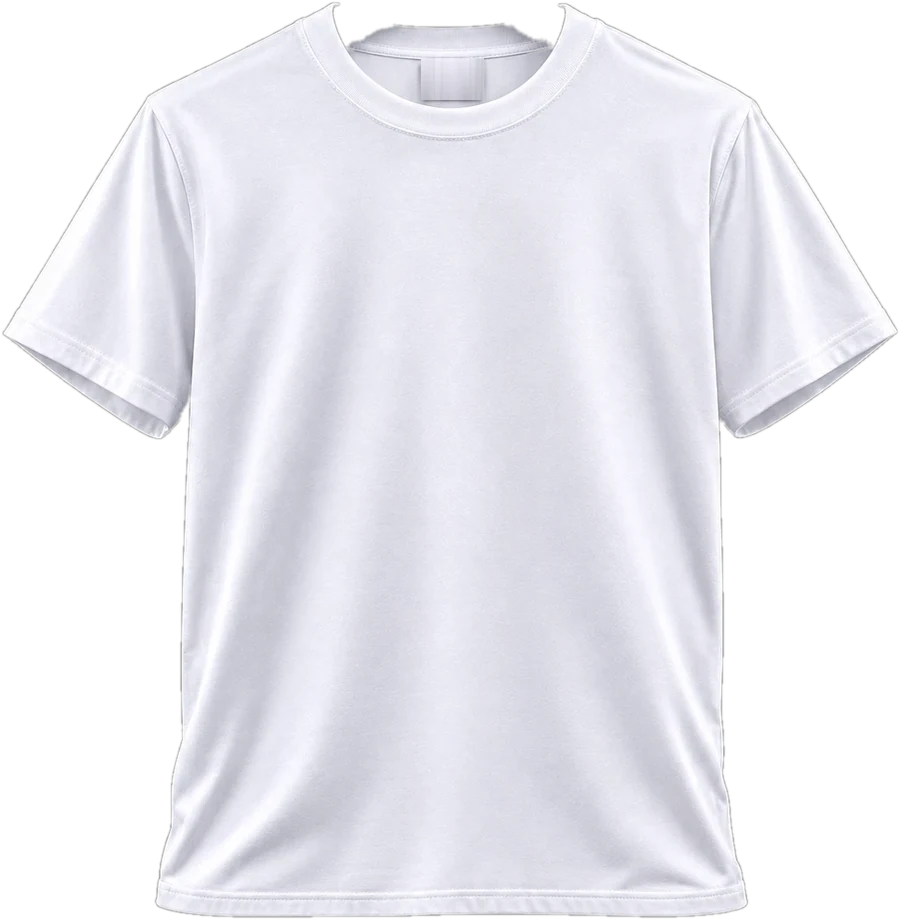
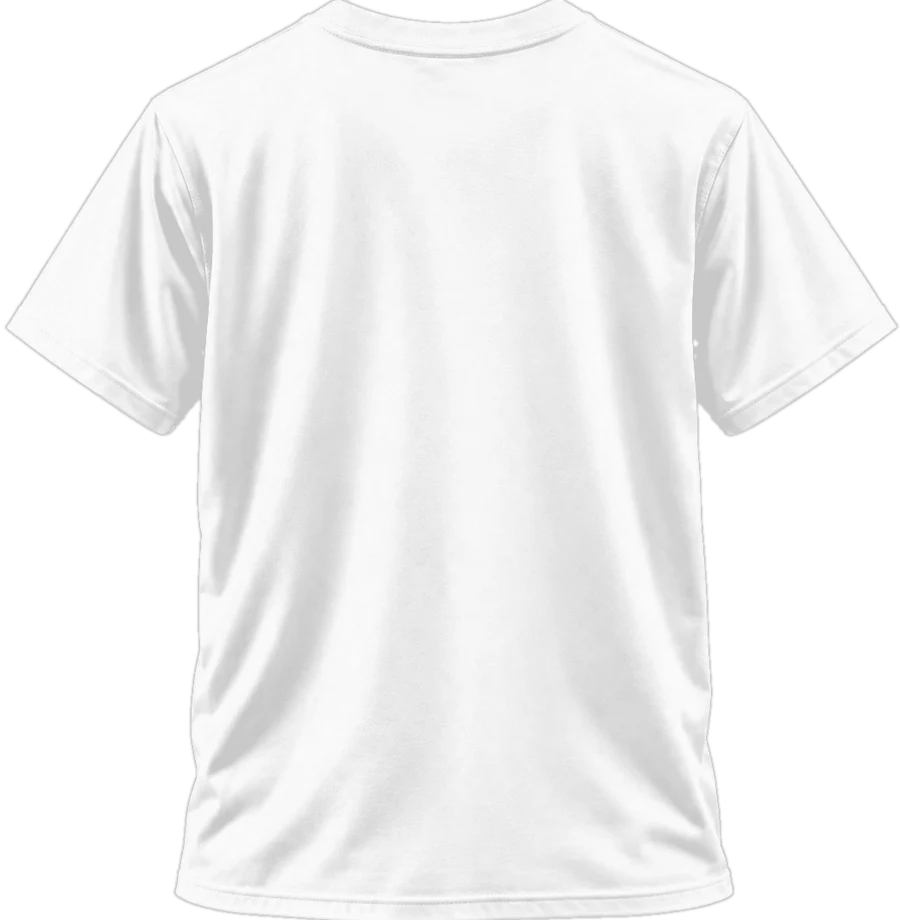
SEARCADE: espalda real de la camiseta a partir de la foto de espalda del dueño
Blanca y negra con el cuello de atrás, sin etiqueta ni escote; los demás
colores tiñen la blanca. Mismo recorte que el frente para que calcen al
girar; el estampado de espalda empieza ~8 cm bajo el cuello (16,1 %).
scripts/searcade-espalda.py regenera las imágenes.

Claude-Session: https://claude.ai/code/session_01CdKTKdfLgdGH12XcxBa9X9

diff --git a/searcade/config.js b/searcade/config.js
@@ -62,7 +62,7 @@ window.SEARCADE_CONFIG = {
     cmAncho: 1.2586, cmAlto: 1.2316,
     pecho: { top: 23.5 },                  // ~8 cm bajo el cuello, centrado
     pechoIzquierdo: { centro: 61.3, top: 21.5 },
-    espalda: { top: 15 },                  // ~8 cm bajo el cuello de atrás
+    espalda: { top: 16.1 },                // ~8 cm bajo el cuello de atrás (foto real de espalda)
     espaldaArriba: { top: 9 },
     etiqueta: { src: "img/marca/etiqueta.webp", x: 46.77, y: 6.33, ancho: 7.03, alto: 4.56 },
   },

diff --git a/scripts/searcade-espalda.py b/scripts/searcade-espalda.py
@@ -1,0 +1,59 @@
+# Genera las camisetas de ESPALDA de SEARCADE (blanca y negra) a partir de la
+# foto de espalda del dueño (camiseta de color colgada sobre fondo negro).
+# Usa el mismo recorte que scripts/searcade-camisetas-base.py para que frente y
+# espalda calcen exacto al girar la camiseta.
+#
+# Uso: python3 -I scripts/searcade-espalda.py foto-espalda.webp carpeta_salida
+import sys
+import numpy as np
+from PIL import Image, ImageFilter
+
+src, out = sys.argv[1], sys.argv[2]
+# Recorte de la foto del frente (misma sesión de fotos, mismo encuadre)
+CX0, CY0, CX1, CY1 = 74, 194, 1126, 1269
+
+im = Image.open(src).convert("RGB")
+a = np.asarray(im).astype(np.float32)
+r, g, b = a[..., 0], a[..., 1], a[..., 2]
+
+# 1) La camiseta: el color de la tela se distingue del fondo negro y del gancho gris
+canal = a.max(2)
+sat = canal - a.min(2)
+mask = (canal > 90) & (sat > 50)
+alpha = Image.fromarray((mask * 255).astype(np.uint8)).filter(ImageFilter.MaxFilter(3)).filter(ImageFilter.GaussianBlur(1.1))
+al = np.asarray(alpha).astype(np.float32) / 255
+
+# 2) Luz de la tela (sombras y pliegues) a partir del canal más brillante
+lum = canal
+p_baja, p_alta = np.percentile(lum[mask], [2, 98])
+v = np.clip((lum - p_baja) / max(1, p_alta - p_baja), 0, 1)
+
+def guardar(gris, nombre):
+    rgb = np.dstack([gris, gris, gris])
+    rgba = np.dstack([np.clip(rgb, 0, 255), al * 255]).astype(np.uint8)
+    img = Image.fromarray(rgba, "RGBA").crop((CX0, CY0, CX1, CY1))
+    img.thumbnail((900, 1000), Image.LANCZOS)
+    img.save(f"{out}/{nombre}.webp", "WEBP", quality=88, method=6)
+    print(nombre, img.size)
+
+# Blanca: mismos tonos que la foto blanca del frente (≈205–250)
+blanca = 200 + v * 50
+guardar(blanca, "camiseta-blanca-espalda")
+# Negra: misma fórmula que el frente negro
+oscuro = 9 + (v ** 1.6) * 46
+negra = np.dstack([oscuro * .96, oscuro * .95, oscuro * 1.02])
+rgba = np.dstack([np.clip(negra, 0, 255), al * 255]).astype(np.uint8)
+img = Image.fromarray(rgba, "RGBA").crop((CX0, CY0, CX1, CY1))
+img.thumbnail((900, 1000), Image.LANCZOS)
+img.save(f"{out}/camiseta-negra-espalda.webp", "WEBP", quality=88, method=6)
+print("camiseta-negra-espalda", img.size)
+
+# Dónde empieza el estampado de espalda: ~8 cm (13,24 px/cm) bajo la costura del cuello
+col = mask[:, (CX0 + CX1) // 2]
+ys = np.nonzero(col)[0]
+cuello_arriba = ys.min()
+# la costura del cuello es la franja más oscura cerca del borde superior
+fila = lum[cuello_arriba:cuello_arriba + 80, (CX0 + CX1) // 2]
+costura = cuello_arriba + int(np.argmin(fila))
+top = (costura + 8 * 13.24 - CY0) / (CY1 - CY0) * 100
+print(f"cuello de atrás en y={costura}px → estampado de espalda desde top {top:.1f}%")
